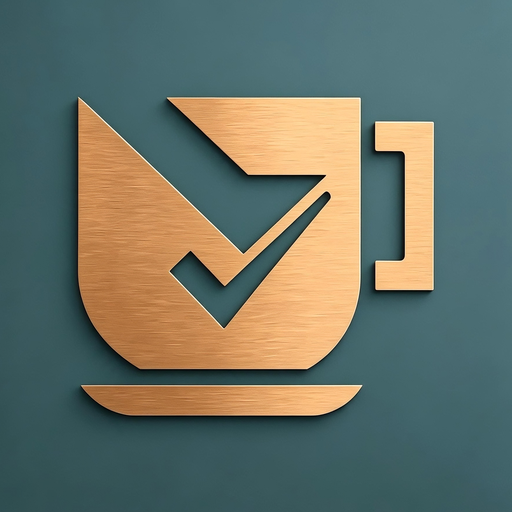
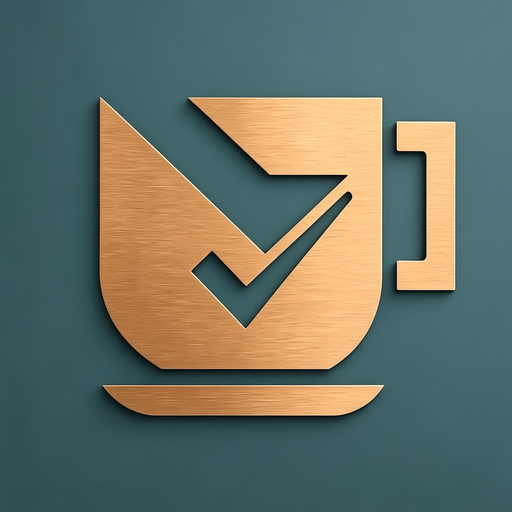
Deploying to gh-pages from @ doaibu0000000/Mokundo-Pos@d3da94288fea7d45b5dfa51e89eb18e9a4c0cce0 🚀

diff --git a/sw.js b/sw.js
@@ -1,1 +1,1 @@
-if(!self.define){let e,s={};const a=(a,n)=>(a=new URL(a+".js",n).href,s[a]||new Promise(s=>{if("document"in self){const e=document.createElement("script");e.src=a,e.onload=s,document.head.appendChild(e)}else e=a,importScripts(a),s()}).then(()=>{let e=s[a];if(!e)throw new Error(`Module ${a} didn’t register its module`);return e}));self.define=(n,i)=>{const r=e||("document"in self?document.currentScript.src:"")||location.href;if(s[r])return;let c={};const l=e=>a(e,r),o={module:{uri:r},exports:c,require:l};s[r]=Promise.all(n.map(e=>o[e]||l(e))).then(e=>(i(...e),c))}}define(["./workbox-efbd304a"],function(e){"use strict";self.skipWaiting(),e.clientsClaim(),e.precacheAndRoute([{url:"splash-icon.png",revision:"923ca362c2f56877d8a4e8a1b8a4e11d"},{url:"registerSW.js",revision:"c3667a79e13c80f76bdc01e9bfe4bbf9"},{url:"pwa-512x512.png",revision:"923ca362c2f56877d8a4e8a1b8a4e11d"},{url:"pwa-512x512-maskable.png",revision:"923ca362c2f56877d8a4e8a1b8a4e11d"},{url:"pwa-192x192.png",revision:"923ca362c2f56877d8a4e8a1b8a4e11d"},{url:"old-pwa-512.png",revision:"32d9ad87b457cfb8dbb4e26ef36c0bff"},{url:"index.html",revision:"7cf77ef54be67a31a00ec53229c06346"},{url:"icons.svg",revision:"3b4fcfcf393eca4d264dca4a4663bc37"},{url:"favicon.svg",revision:"7e840862161341271697daa99a40d76b"},{url:"favicon.png",revision:"923ca362c2f56877d8a4e8a1b8a4e11d"},{url:"brand-icon.png",revision:"923ca362c2f56877d8a4e8a1b8a4e11d"},{url:"assets/rolldown-runtime-QTnfLwEv.js",revision:null},{url:"assets/purify.es-ZPrpXrUc.js",revision:null},{url:"assets/index.es-ET4696Tv.js",revision:null},{url:"assets/index-CxOshfKN.js",revision:null},{url:"assets/index-C3fc_rsX.css",revision:null},{url:"assets/html2canvas-BswC5BpG.js",revision:null},{url:"assets/browser-pBwlB2M7.js",revision:null},{url:"favicon.png",revision:"923ca362c2f56877d8a4e8a1b8a4e11d"},{url:"pwa-192x192.png",revision:"923ca362c2f56877d8a4e8a1b8a4e11d"},{url:"pwa-512x512-maskable.png",revision:"923ca362c2f56877d8a4e8a1b8a4e11d"},{url:"pwa-512x512.png",revision:"923ca362c2f56877d8a4e8a1b8a4e11d"},{url:"splash-icon.png",revision:"923ca362c2f56877d8a4e8a1b8a4e11d"},{url:"manifest.webmanifest",revision:"a019e64b3903c01fdb04bb93554606da"}],{}),e.cleanupOutdatedCaches(),e.registerRoute(new e.NavigationRoute(e.createHandlerBoundToURL("index.html"))),e.registerRoute(/^https:\/\/.*\.supabase\.co\/rest\/v1\/.*/i,new e.NetworkFirst({cacheName:"supabase-api-cache",plugins:[new e.ExpirationPlugin({maxEntries:100,maxAgeSeconds:2592e3}),new e.CacheableResponsePlugin({statuses:[0,200]})]}),"GET")});
+if(!self.define){let e,s={};const n=(n,i)=>(n=new URL(n+".js",i).href,s[n]||new Promise(s=>{if("document"in self){const e=document.createElement("script");e.src=n,e.onload=s,document.head.appendChild(e)}else e=n,importScripts(n),s()}).then(()=>{let e=s[n];if(!e)throw new Error(`Module ${n} didn’t register its module`);return e}));self.define=(i,r)=>{const b=e||("document"in self?document.currentScript.src:"")||location.href;if(s[b])return;let c={};const d=e=>n(e,b),l={module:{uri:b},exports:c,require:d};s[b]=Promise.all(i.map(e=>l[e]||d(e))).then(e=>(r(...e),c))}}define(["./workbox-efbd304a"],function(e){"use strict";self.skipWaiting(),e.clientsClaim(),e.precacheAndRoute([{url:"splash-icon.png",revision:"84dbe2bc40d5780eb3bd444cf0f3e127"},{url:"registerSW.js",revision:"c3667a79e13c80f76bdc01e9bfe4bbf9"},{url:"pwa-512x512.png",revision:"84dbe2bc40d5780eb3bd444cf0f3e127"},{url:"pwa-512x512-maskable.png",revision:"84dbe2bc40d5780eb3bd444cf0f3e127"},{url:"pwa-192x192.png",revision:"84dbe2bc40d5780eb3bd444cf0f3e127"},{url:"old-pwa-512.png",revision:"32d9ad87b457cfb8dbb4e26ef36c0bff"},{url:"index.html",revision:"7cf77ef54be67a31a00ec53229c06346"},{url:"icons.svg",revision:"3b4fcfcf393eca4d264dca4a4663bc37"},{url:"favicon.svg",revision:"7e840862161341271697daa99a40d76b"},{url:"favicon.png",revision:"84dbe2bc40d5780eb3bd444cf0f3e127"},{url:"brand-icon.png",revision:"84dbe2bc40d5780eb3bd444cf0f3e127"},{url:"assets/rolldown-runtime-QTnfLwEv.js",revision:null},{url:"assets/purify.es-ZPrpXrUc.js",revision:null},{url:"assets/index.es-ET4696Tv.js",revision:null},{url:"assets/index-CxOshfKN.js",revision:null},{url:"assets/index-C3fc_rsX.css",revision:null},{url:"assets/html2canvas-BswC5BpG.js",revision:null},{url:"assets/browser-pBwlB2M7.js",revision:null},{url:"favicon.png",revision:"84dbe2bc40d5780eb3bd444cf0f3e127"},{url:"pwa-192x192.png",revision:"84dbe2bc40d5780eb3bd444cf0f3e127"},{url:"pwa-512x512-maskable.png",revision:"84dbe2bc40d5780eb3bd444cf0f3e127"},{url:"pwa-512x512.png",revision:"84dbe2bc40d5780eb3bd444cf0f3e127"},{url:"splash-icon.png",revision:"84dbe2bc40d5780eb3bd444cf0f3e127"},{url:"manifest.webmanifest",revision:"a019e64b3903c01fdb04bb93554606da"}],{}),e.cleanupOutdatedCaches(),e.registerRoute(new e.NavigationRoute(e.createHandlerBoundToURL("index.html"))),e.registerRoute(/^https:\/\/.*\.supabase\.co\/rest\/v1\/.*/i,new e.NetworkFirst({cacheName:"supabase-api-cache",plugins:[new e.ExpirationPlugin({maxEntries:100,maxAgeSeconds:2592e3}),new e.CacheableResponsePlugin({statuses:[0,200]})]}),"GET")});
